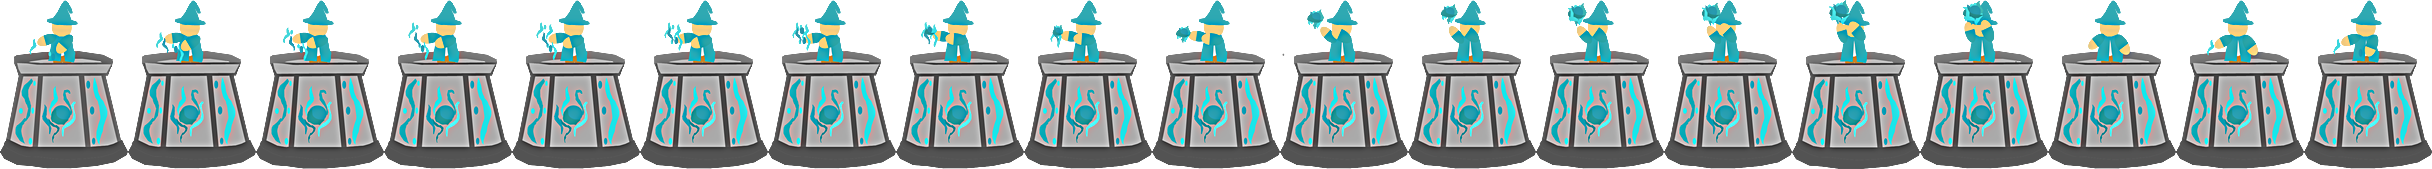
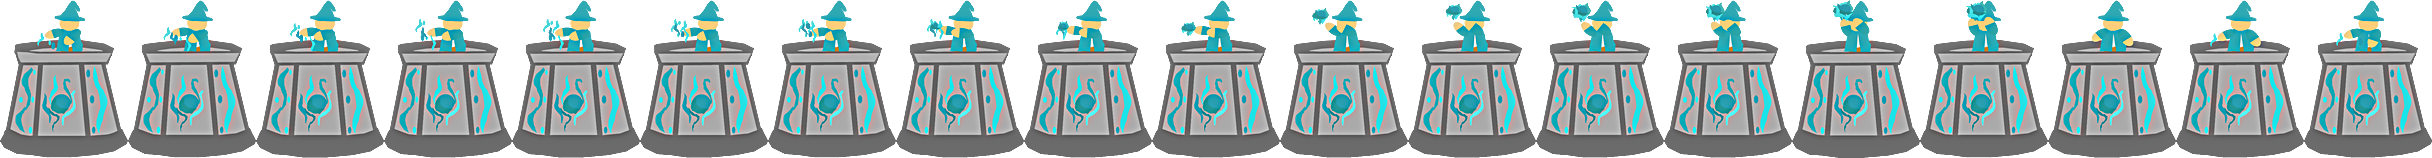
.

diff --git a/Helltrip/js/stats.js b/Helltrip/js/stats.js
@@ -1,4 +1,4 @@
-let coins = 500;
+let coins = 300;
 let hearts = 10;
 
 const stats = {
@@ -6,7 +6,7 @@ const stats = {
         archer: {
             lvl1: {
                 name: 'Archer',
-                damage: 20,
+                damage: 15,
                 range: 250,
                 cooldown: 0.6,
                 cost: 90,
@@ -15,7 +15,7 @@ const stats = {
         mage: {
             lvl1: {
                 name: 'Mage',      
-                damage: 40,
+                damage: 35,
                 range: 150,
                 cooldown: 1.4,
                 cost: 140,
@@ -55,12 +55,16 @@ const stats = {
             reward: 15
         },
         orc:{
-            health:100,
-            armor:1.5,
-            speed:0.9,
+            health:110,
+            armor:1.7,
+            speed:0.5,
             reward:9,
-
-
+        },
+        goblin:{
+            health:70,
+            armor:1,
+            speed:0.7,
+            reward:5,
         }
     },
 

diff --git a/Helltrip/js/classes.js b/Helltrip/js/classes.js
@@ -169,6 +169,19 @@ class Orc extends Enemy {
     this.maxHealth = enemyStats.health;
   }
 }
+class Goblin extends Enemy {
+  constructor({ position = { x: 0, y: 0 } }) {
+    super({ position, imageSrc: 'media/tower-models/enemies/goblin.png', frames: { max: 20 } });
+    const enemyStats = stats.enemies.goblin;
+    this.width = 50;
+    this.height = 60;
+    this.radius = 30;
+    this.health = enemyStats.health;
+    this.armor = enemyStats.armor;
+    this.speed = enemyStats.speed;
+    this.maxHealth = enemyStats.health;
+  }
+}
 class Projectile extends Sprite{
   constructor({ position = { x: 0, y: 0 }, enemy , damage}) {
     super({position , imageSrc : 'media/tower-models/projectiles/projectile.png'})

diff --git a/Helltrip/js/script.js b/Helltrip/js/script.js
@@ -44,7 +44,7 @@ const switcher = document.querySelector('.off')
 play.addEventListener('click', () => {
   switcher.classList.toggle('off')
   if (!switcher.classList.contains('off')) {
-    spawnEnemies(3);
+    spawnEnemies(10);
     
     play.style.display = 'none'
   }
@@ -62,7 +62,7 @@ function spawnEnemies(enemyCount) {
   for (let i = 1; i < enemyCount + 1; i++) {
     const xOffset = i * 100;
     enemies.push(
-      new Orc({
+      new Goblin({
         position: { x: waypoints[0].x - xOffset, y: waypoints[0].y }
       })
     );

diff --git a/Helltrip/js/towers.js b/Helltrip/js/towers.js
@@ -147,7 +147,7 @@ class MageTower extends Tower {
             },
             offset: {
                 x: -12,
-                y:-105,
+                y:-95,
             }
         });
     }
